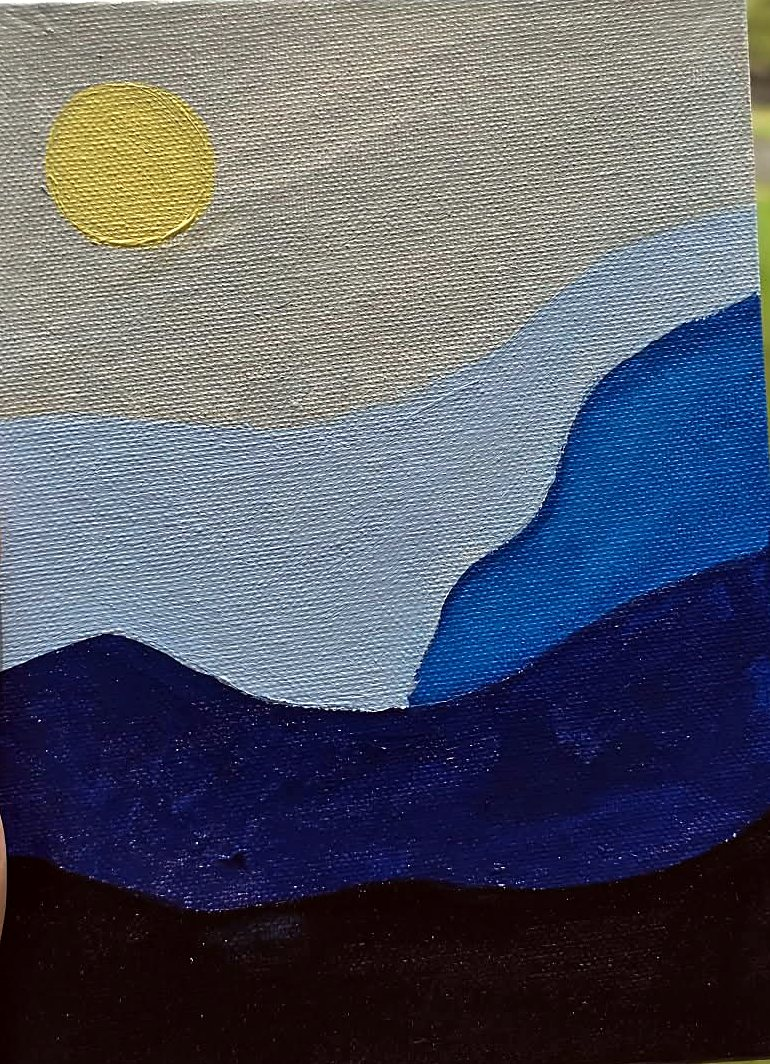
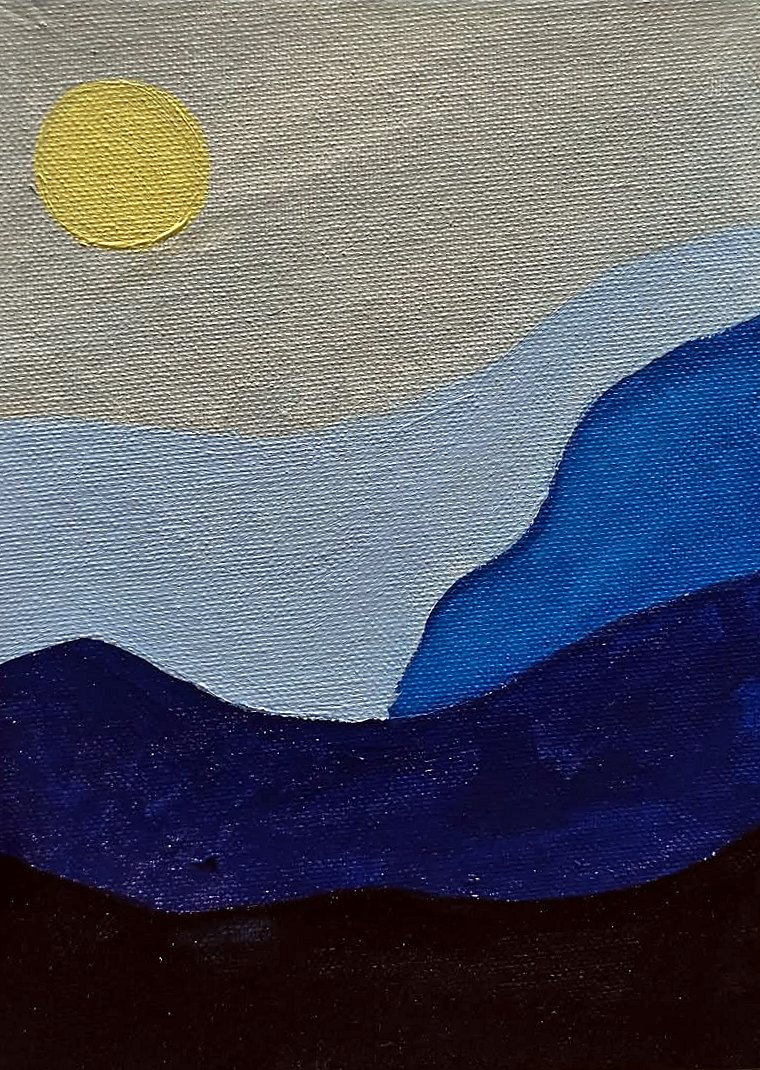
Canvases in their own row, new Hope & Moonlit hills photos, collection photo
- Canvas art moved out of the charm grid into a 'Little canvases' row (own nav link)
- Cleaner photos: Hope (both canvases), Moonlit hills (straightened), portrait canvas
- 'Spotted one that's not in the shop?' banner with the full collection photo
- All new text editable in Pages CMS

Claude-Session: https://claude.ai/code/session_014vdecjsfNAjsdGQbTTEi26

diff --git a/assets/css/style.css b/assets/css/style.css
@@ -76,6 +76,7 @@ h2 { font-family: var(--font-display); font-weight: 400; font-size: clamp(1.75re
 
 /* Hover only where there's a real mouse — no sticky hovers on phones */
 @media (hover: hover) and (pointer: fine) {
+  .btn-outline:hover { border-color: var(--navy); }
   .btn-navy:hover  { background: #0B1630; }
   .btn-sky:hover   { filter: brightness(1.06); }
   .btn-ghost:hover { background: rgba(255, 255, 255, 0.08); }
@@ -206,6 +207,27 @@ h2 { font-family: var(--font-display); font-weight: 400; font-size: clamp(1.75re
 .two-foot b.ask-price { font-size: 0.9375rem; }
 .two-foot .ask { padding: 0 18px; white-space: nowrap; }
 
+/* ---------- The whole collection (one photo of everything) ---------- */
+.collection { display: flex; flex-direction: column; gap: 18px; margin-top: 28px; padding: 14px; border-radius: 22px; background: var(--white); box-shadow: 0 1px 0 var(--mist), 0 8px 22px rgba(19, 35, 69, 0.07); }
+.collection[hidden] { display: none; }
+.collection-photo { overflow: hidden; border-radius: 14px; aspect-ratio: 5 / 6; background: #EEEDEA; }
+.collection-photo img { width: 100%; height: 100%; object-fit: cover; object-position: center top; }
+.collection-copy { display: flex; flex-direction: column; gap: 8px; padding: 0 6px 6px; }
+.collection-copy h3 { font-family: var(--font-display); font-weight: 400; font-size: clamp(1.375rem, 2.4vw, 1.875rem); line-height: 1.15; text-wrap: balance; }
+.collection-copy p:not(.hand) { color: var(--muted); max-width: 46ch; }
+.collection-copy .cta-row { margin: 10px 0 0; }
+.btn-outline { background: var(--white); color: var(--navy); border-color: var(--control-edge); }
+
+/* ---------- Canvas art: its own row ---------- */
+.canvas-art { padding-top: 8px; padding-bottom: 44px; }
+.sec-text { margin: -4px 0 16px; color: var(--muted); max-width: 52ch; }
+.canvas-row {
+  display: flex; gap: 12px; margin: 0 calc(-1 * var(--gutter)); padding: 4px var(--gutter) 14px;
+  overflow-x: auto; scrollbar-width: none; scroll-snap-type: x mandatory; scroll-padding-inline: var(--gutter);
+}
+.canvas-row::-webkit-scrollbar { display: none; }
+.canvas-row .card { flex: 0 0 64%; scroll-snap-align: start; }
+
 /* ---------- Reviews ---------- */
 .rail {
   display: flex; gap: 14px; margin: 0 calc(-1 * var(--gutter)); padding: 8px var(--gutter) 16px;
@@ -287,6 +309,12 @@ h2 { font-family: var(--font-display); font-weight: 400; font-size: clamp(1.75re
   .for-two { padding: 16px 0 56px; }
   .two-rail { display: grid; grid-template-columns: repeat(3, minmax(0, 1fr)); gap: 20px; margin: 0; padding: 4px 0 8px; overflow: visible; }
   .two-card { flex: none; }
+  .canvas-row { display: grid; grid-template-columns: repeat(4, minmax(0, 1fr)); gap: 18px; margin: 0; padding: 4px 0 8px; overflow: visible; }
+  .canvas-row .card { flex: none; }
+  .collection { flex-direction: row; align-items: center; gap: 28px; padding: 16px; }
+  .collection-photo { flex: 0 0 34%; max-height: none; }
+  .collection-copy { padding: 0 12px 0 0; }
+  .canvas-art { padding-bottom: 56px; }
   .chips { flex-wrap: wrap; overflow: visible; margin: 0 0 20px; padding: 2px 0; -webkit-mask-image: none; mask-image: none; }
   .trust { display: flex; justify-content: center; gap: 40px; }
   .trust div { display: flex; align-items: center; gap: 10px; font-size: 0.9375rem; }

diff --git a/index.html b/index.html
@@ -52,6 +52,7 @@
       </a>
       <nav class="nav" aria-label="Main">
         <a href="#shop">Shop</a>
+        <a href="#canvas">Canvas art</a>
         <a href="#custom">Custom orders</a>
         <a href="#about">About</a>
         <a href="#faq">FAQ</a>
@@ -150,6 +151,36 @@
       </div>
       <div class="chips" id="filters" role="group" aria-label="Filter by category"></div>
       <div class="grid" id="products"></div>
+
+      <!-- The whole collection: one photo of everything, for pieces not listed one by one -->
+      <div class="collection" id="collection">
+        <div class="collection-photo">
+          <img id="collection-photo" src="assets/images/collection-flatlay.jpg" alt="Luna's whole collection of clay keychains and charms laid out on a white cloth" loading="lazy">
+        </div>
+        <div class="collection-copy">
+          <p class="hand" data-text="collection_note">the whole family <span aria-hidden="true">♡</span></p>
+          <h3 data-text="collection_title">Spotted one that's not in the shop?</h3>
+          <p data-text="collection_text">Kitty, avocado, the little sunrise and more. Every piece can be made again, so send me a screenshot of the one you love and I'll make it for you.</p>
+          <div class="cta-row">
+            <a class="btn btn-navy btn-lg press" data-link="whatsapp" data-message="Hi Luna! I saw your collection photo and I'd love one of these:" href="#" target="_blank" rel="noopener">
+              <svg width="18" height="18" aria-hidden="true"><use href="#i-chat"/></svg>Ask on WhatsApp
+            </a>
+            <a class="btn btn-outline btn-lg press" data-link="instagram-dm" href="#" target="_blank" rel="noopener">
+              <svg width="18" height="18" aria-hidden="true"><use href="#i-insta"/></svg>DM on Instagram
+            </a>
+          </div>
+        </div>
+      </div>
+    </section>
+
+    <!-- ================= CANVAS ART: its own row ================= -->
+    <section id="canvas" class="wrap canvas-art" aria-labelledby="canvas-h" hidden>
+      <div class="sec-head">
+        <h2 id="canvas-h" data-text="canvas_title">Little canvases</h2>
+        <span class="hand" data-text="canvas_note">painted by hand <span aria-hidden="true">♡</span></span>
+      </div>
+      <p class="sec-text" data-text="canvas_text">Small acrylic paintings for your desk, wall or a friend. Portraits and custom scenes too.</p>
+      <div class="canvas-row" id="canvas-list"></div>
     </section>
 
     <!-- ================= REVIEWS ================= -->

diff --git a/assets/js/main.js b/assets/js/main.js
@@ -15,6 +15,9 @@
     { id: "bags",      label: "Bag charms",   tag: "Bag charm" },
     { id: "canvas",    label: "Canvas art",   tag: "Canvas" },
   ];
+  // Categories shown in their own row instead of the charm grid
+  const OWN_ROW = ["canvas"];
+  const inGrid = (p) => !OWN_ROW.includes(p.category);
 
   const reduceMotion = window.matchMedia("(prefers-reduced-motion: reduce)").matches;
   const $ = (sel) => document.querySelector(sel);
@@ -90,6 +93,8 @@
     setImg("#hero-photo-1", page.hero_photo_1, "");
     setImg("#hero-photo-2", page.hero_photo_2, "");
     setImg("#about-photo", page.about_photo, "Luna's work table");
+    setImg("#collection-photo", page.collection_photo);
+    if (page.show_collection === false || page.show_collection === "false") $("#collection").hidden = true;
   }
 
   /* ---------- Contact links ---------- */
@@ -156,6 +161,7 @@
     renderFilters();
     renderProducts();
     renderCouples();
+    renderCanvasRow();
   }
 
   /* ---------- For two (couples) ---------- */
@@ -190,7 +196,7 @@
   }
 
   function renderFilters() {
-    const used = CATEGORIES.filter((c) => products.some((p) => p.category === c.id));
+    const used = CATEGORIES.filter((c) => !OWN_ROW.includes(c.id) && products.some((p) => p.category === c.id));
     $("#filters").innerHTML = [{ id: "all", label: "All" }, ...used]
       .map((t) => `<button type="button" class="chip press" data-filter="${esc(t.id)}" aria-pressed="${t.id === currentFilter}">${esc(t.label)}</button>`)
       .join("");
@@ -224,9 +230,17 @@
   }
 
   function renderProducts() {
-    const list = products.filter((p) => currentFilter === "all" || p.category === currentFilter);
+    const list = products.filter((p) => inGrid(p) && (currentFilter === "all" || p.category === currentFilter));
     $("#products").innerHTML = list.map(productCard).join("");
     wireContactLinks($("#products"));
+  }
+
+  /* ---------- Canvas art: its own row ---------- */
+  function renderCanvasRow() {
+    const list = products.filter((p) => p.category === "canvas");
+    $("#canvas").hidden = !list.length;
+    $("#canvas-list").innerHTML = list.map(productCard).join("");
+    wireContactLinks($("#canvas-list"));
   }
 
   $("#filters").addEventListener("click", (e) => {
